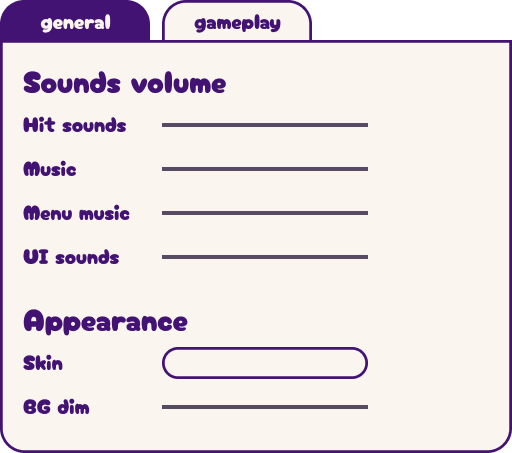
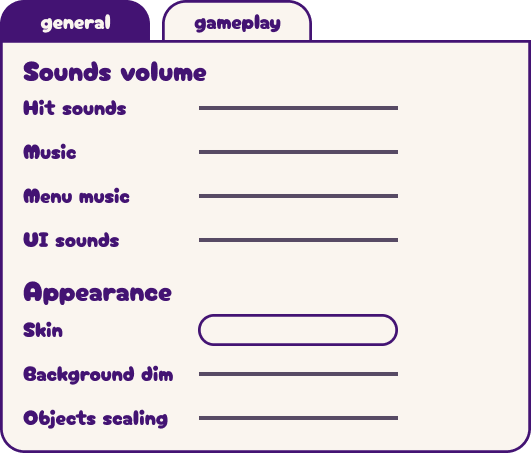
Make a slider in the settings to adjust circle scaling

diff --git a/source/Modes/ModeSettings.cpp b/source/Modes/ModeSettings.cpp
@@ -72,8 +72,14 @@ void ModeSettings::InitCommonSprites() {
     mSpriteManager.Add(spr);
 }
 
-void ValueSlider_updateDisplayedValue (float val, pText* valLabel) {
-    valLabel->Text = std::to_string((int)round(val));
+void ValueSlider_updateDisplayedValue (float val, pText* valLabel, bool multiplier_mode=false) {
+    if (multiplier_mode) {
+        char value_str[8];
+        snprintf(value_str, 8, "%.2fx", (float)((int)((val+100) * 1 + .5)) / 100.f);
+        valLabel->Text = value_str;
+    } else {
+        valLabel->Text = std::to_string((int)round(val));
+    }
 }
 
 void ValueSlider_saveDisplayedValue (float val, const std::string& setting_name) {
@@ -122,18 +128,35 @@ void ModeSettings::CreateStringSelector(int32_t x, int32_t y, const std::string&
     ss->AddToSpriteManager(mSpriteManager);
 }
 
-void ModeSettings::CreateValueSlider(int32_t x, int32_t y, const std::string& setting_name) {
+void ModeSettings::CreateValueSlider(int32_t x, int32_t y, const std::string& setting_name, bool multiplier_mode) {
     float lastValue = Settings::get_float(setting_name);
     auto* vs = new ValueSlider(x, y);
     vs->Init(lastValue);
-    auto* spr = new pText(std::to_string((int)(round(lastValue))),
-                          FONT_PIXEL, x+281, y, SDL_Color());
+    pText* spr;
+
+    if (multiplier_mode) {
+        char value_str[8];
+        snprintf(value_str, 8, "%.2fx", (float)((int)((lastValue+100) * 1 + .5)) / 100.f);
+        spr = new pText(value_str,FONT_PIXEL, x+266, y, SDL_Color());
+    } else {
+        spr = new pText(std::to_string((int)(round(lastValue))), FONT_PIXEL, x+266, y, SDL_Color());
+    }
+
     spr->Z = -1.f;
     spr->Origin = ORIGIN_CENTER;
     mSpriteManager.Add(spr);
 
-    std::function<void(float)> updateval_lambda = [spr](float f) { return ValueSlider_updateDisplayedValue(f, spr); };
-    vs->value_change_callback = updateval_lambda;
+    if (multiplier_mode) {
+        std::function<void(float)> updateval_lambda = [spr](float f) {
+            return ValueSlider_updateDisplayedValue(f, spr, true);
+        };
+        vs->value_change_callback = updateval_lambda;
+    } else {
+        std::function<void(float)> updateval_lambda = [spr](float f) {
+            return ValueSlider_updateDisplayedValue(f, spr);
+        };
+        vs->value_change_callback = updateval_lambda;
+    }
 
     std::function<void(float)> saveval_lambda = [setting_name](float f) { return ValueSlider_saveDisplayedValue(f, setting_name); };
     vs->value_callback = saveval_lambda;
@@ -146,7 +169,7 @@ void ModeSettings::TabGeneral() {
     InitCommonSprites();
 
     pDrawable* spr;
-    spr = new pSprite(TX_SETTINGS_PANEL_GENERAL, 400, 46, 512, 453, ORIGIN_TOPLEFT, FIELD_SCREEN, SDL_Color(), 255, -0.1f);
+    spr = new pSprite(TX_SETTINGS_PANEL_GENERAL, 390, 46, 531, 453, ORIGIN_TOPLEFT, FIELD_SCREEN, SDL_Color(), 255, -0.1f);
     mSpriteManager.Add(spr);
 
     spr = new pSprite(TX_BUTTON_BIG, 558, 42, 158, 44, ORIGIN_TOPLEFT, FIELD_SCREEN, SDL_Color(), 0);
@@ -154,19 +177,20 @@ void ModeSettings::TabGeneral() {
     spr->OnClick = ModeSettings_SwitchTabToGameplay;
     mSpriteManager.Add(spr);
 
-    CreateValueSlider(562, 170, "volume_hitsounds");
-    CreateValueSlider(562, 214, "volume_music");
-    CreateValueSlider(562, 258, "volume_menumusic");
-    CreateValueSlider(562, 302, "volume_uisounds");
-    CreateStringSelector(562, 393, "skin");
-    CreateValueSlider(562, 452, "bgdim");
+    CreateValueSlider(589, 153, "volume_hitsounds");
+    CreateValueSlider(589, 197, "volume_music");
+    CreateValueSlider(589, 241, "volume_menumusic");
+    CreateValueSlider(589, 285, "volume_uisounds");
+    CreateStringSelector(589, 360, "skin");
+    CreateValueSlider(589, 419, "bgdim");
+    CreateValueSlider(589, 463, "hoscale", true);
 }
 
 void ModeSettings::TabGameplay() {
     InitCommonSprites();
 
     pDrawable* spr;
-    spr = new pSprite(TX_SETTINGS_PANEL_GAMEPLAY, 400, 46, 512, 453, ORIGIN_TOPLEFT, FIELD_SCREEN, SDL_Color(), 255, -0.1f);
+    spr = new pSprite(TX_SETTINGS_PANEL_GAMEPLAY, 390, 46, 531, 453, ORIGIN_TOPLEFT, FIELD_SCREEN, SDL_Color(), 255, -0.1f);
     mSpriteManager.Add(spr);
 
     spr = new pSprite(TX_BUTTON_BIG, 393, 42, 158, 44, ORIGIN_TOPLEFT, FIELD_SCREEN, SDL_Color(), 0);

diff --git a/source/Modes/ModeSettings.h b/source/Modes/ModeSettings.h
@@ -26,10 +26,10 @@ public:
     StringSelector(int32_t x, int32_t y) {
         mX = x;
         mY = y;
-        selectedString = new pText("default", FONT_CONSOLE, mX+18, mY+8);
+        selectedString = new pText("default", FONT_CONSOLE, mX+13, mY+8);
         selectedString->Z = -0.6f;
-        arrowLeft = new pSprite(TX_BUTTON_SETTINGS_ARROW, mX+232+4, mY, 47, 32, ORIGIN_TOPLEFT, FIELD_SCREEN, SDL_Color(), 255, -0.5);
-        arrowRight = new pSprite(TX_BUTTON_SETTINGS_ARROW, mX+232+47, mY, 47, 32, ORIGIN_TOPLEFT, FIELD_SCREEN, SDL_Color(), 255, -0.5);
+        arrowLeft = new pSprite(TX_BUTTON_SETTINGS_ARROW, mX+217+4, mY, 47, 32, ORIGIN_TOPLEFT, FIELD_SCREEN, SDL_Color(), 255, -0.5);
+        arrowRight = new pSprite(TX_BUTTON_SETTINGS_ARROW, mX+217+47, mY, 47, 32, ORIGIN_TOPLEFT, FIELD_SCREEN, SDL_Color(), 255, -0.5);
         arrowRight->Rotate(180);
 
         mSprites.push_back(selectedString);
@@ -287,7 +287,7 @@ protected:
     Logo* mLogo = nullptr;
 
 
-    void CreateValueSlider(int32_t x, int32_t y, const std::string &setting_name);
+    void CreateValueSlider(int32_t x, int32_t y, const std::string &setting_name, bool multiplier_mode=false);
 
     void CreateStringSelector(int32_t x, int32_t y, const std::string &setting_name);
 

diff --git a/source/DataStorage/Settings.h b/source/DataStorage/Settings.h
@@ -144,11 +144,12 @@ class Settings
                     {"activeFilter", FILTER_NONE},
                     {"skin", "default"},
                     {"vitaUseBackTouch", false},
-                    {"volume_hitsounds", 100.0},
-                    {"volume_music", 100.0},
-                    {"volume_menumusic", 80.0},
-                    {"volume_uisounds", 70.0},
-                    {"bgdim", 80.0},
+                    {"volume_hitsounds", 65.0},
+                    {"volume_music", 70.0},
+                    {"volume_menumusic", 40.0},
+                    {"volume_uisounds", 65.0},
+                    {"bgdim", 65.0},
+                    {"hoscale", 25.0},
                     {"controls", {
                         {IH_CONTROL_ACTION, {{SDL_BUTTON_LEFT, IH_KEY_MOUSE}, {SDLK_z, IH_KEY_KEYBOARD}, {SDLK_x, IH_KEY_KEYBOARD}, {SDL_CONTROLLER_BUTTON_LEFTSHOULDER, IH_KEY_CONTROLLER}, {SDL_CONTROLLER_BUTTON_RIGHTSHOULDER, IH_KEY_CONTROLLER}}},
                         {IH_CONTROL_SKIP, {{SDLK_SPACE, IH_KEY_KEYBOARD}, {SDL_CONTROLLER_BUTTON_A, IH_KEY_CONTROLLER}}},

diff --git a/source/Beatmaps/Beatmap.cpp b/source/Beatmaps/Beatmap.cpp
@@ -119,7 +119,9 @@ void Beatmap::Initialize()
     DifficultyManager::SliderTickRate = (uint8_t)mParser->sliderTickRate;
 
     DifficultyManager::preempt_time_new = mParser->preemptMs;
-    DifficultyManager::circle_size_new = mParser->circleRadiusPx * 2;
+
+    float hoscale = (Settings::get_float("hoscale") + 100) / 100;
+    DifficultyManager::circle_size_new = (mParser->circleRadiusPx * 2) * hoscale;
     DifficultyManager::hit_window_300 = mParser->hitWindow300;
     DifficultyManager::hit_window_100 = mParser->hitWindow100;
     DifficultyManager::hit_window_50 = mParser->hitWindow50;
@@ -128,7 +130,6 @@ void Beatmap::Initialize()
     DifficultyManager::fadeInMs = mParser->fadeInMs;
 
     DifficultyManager::DifficultyPeppyStars = 0; // TODO: Learn how to count peppy stars
-    DifficultyManager::DifficultyEyupStars = 0; // TODO: Learn how to count eyup stars
 
     for (osuParser::TimingPoint tp : mParser->timingPoints) {
         int64_t time = tp.offset;

diff --git a/source/Beatmaps/DifficultyManager.cpp b/source/Beatmaps/DifficultyManager.cpp
@@ -17,7 +17,6 @@ uint8_t DifficultyManager::DifficultyOverall = 5;
 float DifficultyManager::SliderMultiplier = 1.0;
 float DifficultyManager::SliderTickRate = 1.0;
 uint8_t DifficultyManager::DifficultyPeppyStars = 3;
-float DifficultyManager::DifficultyEyupStars = 3.0;
 
 long DifficultyManager::preempt_time_new = 0;
 float DifficultyManager::circle_size_new = 0;

diff --git a/source/Beatmaps/DifficultyManager.h b/source/Beatmaps/DifficultyManager.h
@@ -11,7 +11,6 @@ class DifficultyManager
 		static float SliderTickRate;
 
 		static uint8_t DifficultyPeppyStars;
-		static float DifficultyEyupStars;
 
 		//inline
 		static float GetCircleSize()   { return circle_size_new; }
